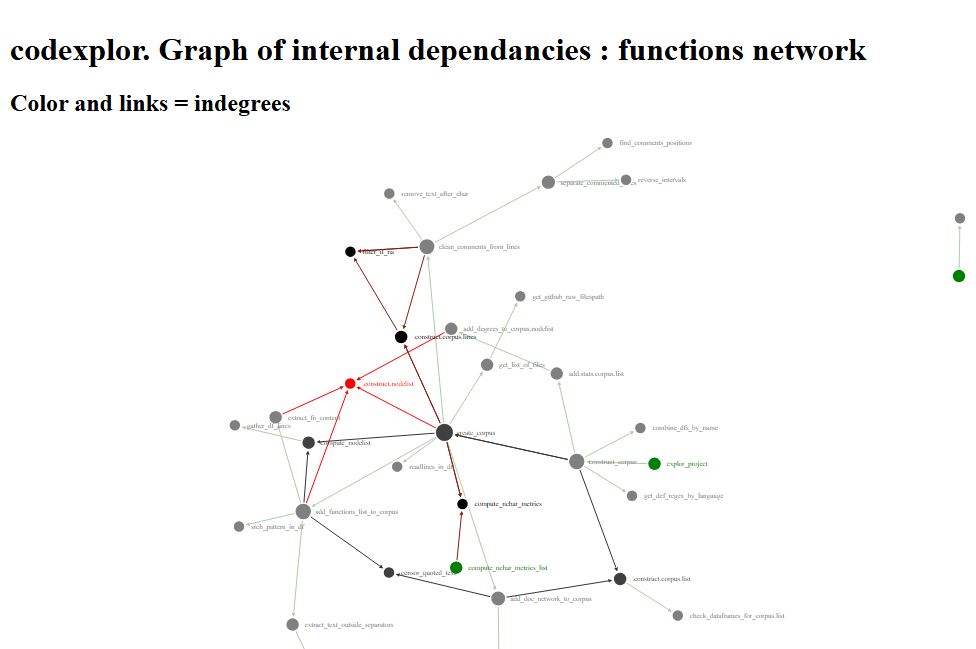
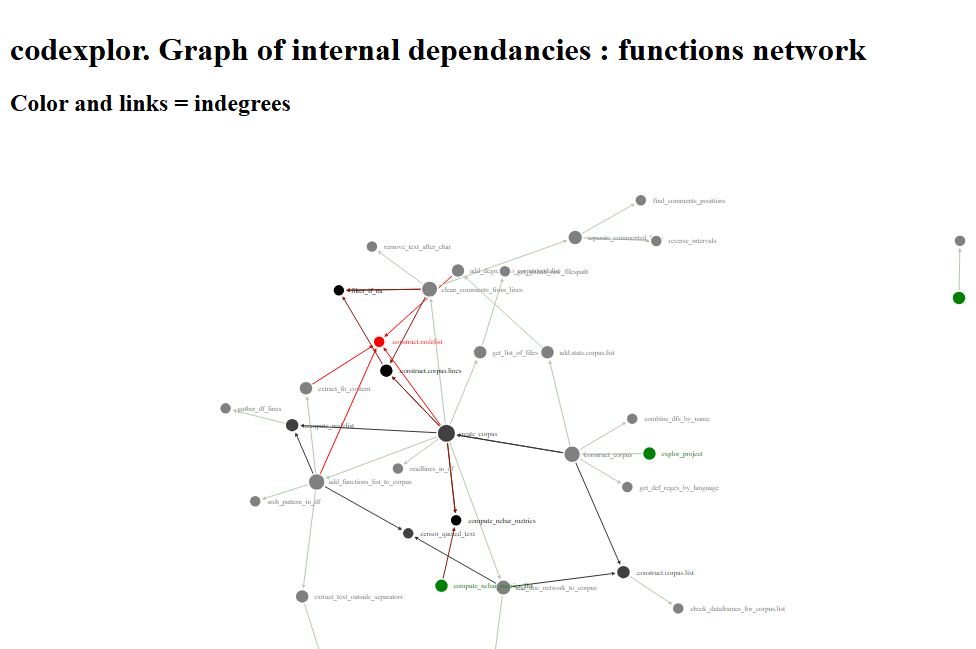
.

diff --git a/man/figures/network_codexplor_fn.html b/man/figures/network_codexplor_fn.html
@@ -1231,11 +1231,11 @@ return function(){for(var n=0,e=0;e<t;++e)n+=Math.random();return n}},um=functio
 <div id="htmlwidget_container">
   <h1>codexplor. Graph of internal dependancies : functions network</h1>
   <h2>Color and links = indegrees</h2>
-  <div class="forceNetwork html-widget html-fill-item" id="htmlwidget-40aa4f397156156c81d8" style="width:960px;height:500px;"></div>
+  <div class="forceNetwork html-widget html-fill-item" id="htmlwidget-779ee07a2e2de3ca71fc" style="width:960px;height:500px;"></div>
   <div style="position:floating; top:10px; left:10px; background:white; padding:10px; border:0px;">
   <strong>Colors (indegree)</strong><br></div>
 </div>
-<script type="application/json" data-for="htmlwidget-40aa4f397156156c81d8">{"x":{"links":{"source":[0,0,1,2,3,4,5,6,0,3,7,0,0,4,2,8,0,3,0,0,9,4,0,10,11,3,3,4,4,12,1,1,13,15,14,16,16,17,2,3,18,19,0,14,0,1,13,1,4,14],"target":[12,12,12,8,8,20,20,20,20,7,6,2,4,21,21,22,1,23,24,24,24,17,17,3,15,0,0,5,11,25,25,25,26,27,27,27,27,28,14,29,30,31,18,16,32,33,34,13,35,36],"colour":["#8C1B0C","#8C1B0C","#8C1B0C","#353535","#353535","#FF0000","#FF0000","#FF0000","#FF0000","#B4C8AC","#B4C8AC","#B4C8AC","#B4C8AC","#353535","#353535","#B4C8AC","#B4C8AC","#B4C8AC","#8C1B0C","#8C1B0C","#8C1B0C","#353535","#353535","#B4C8AC","#B4C8AC","#353535","#353535","#B4C8AC","#B4C8AC","#8C1B0C","#8C1B0C","#8C1B0C","#B4C8AC","#FF0000","#FF0000","#FF0000","#FF0000","#B4C8AC","#B4C8AC","#B4C8AC","#B4C8AC","#B4C8AC","#B4C8AC","#B4C8AC","#B4C8AC","#B4C8AC","#B4C8AC","#B4C8AC","#B4C8AC","#B4C8AC"]},"nodes":{"name":["create_corpus","clean_comments_from_lines","add_doc_network_to_corpus","construct_corpus","add_functions_list_to_corpus","extract_fn_content","add_degrees_to_corpus.nodelist","add.stats.corpus.list",".construct.corpus.list","compute_nchar_metrics_list","explor_project","extract_text_outside_separators",".construct.corpus.lines","separate_commented_lines","get_citations_network_from_df","count_opening_and_closing_chars_level","get_regex_from_vector","compute_nodelist","get_list_of_files","get_networkd3_from_igraph",".construct.nodelist","censor_quoted_text","check_dataframes_for_corpus.list","combine_dfs_by_name","compute_nchar_metrics","filter_if_na","find_comments_positions","fix_escaping","gather_df_lines","get_def_regex_by_language","get_github_raw_filespath","get_igraph_from_df","readlines_in_df","remove_text_after_char","reverse_intervals","srch_pattern_in_df","str_extract_all_to_tidy_df"],"group":[2,1,1,1,1,1,1,1,2,0,0,1,3,1,1,1,1,2,1,0,4,2,1,1,3,3,1,4,1,1,1,1,1,1,1,1,1],"nodesize":[11,5,3,6,6,1,1,1,1,1,1,1,1,2,3,1,2,1,1,1,0,0,0,0,0,0,0,0,0,0,0,0,0,0,0,0,0]},"options":{"NodeID":"name","Group":"indegree","colourScale":"d3.scaleLinear().domain([0, 1, 3, 4]).range([\"green\", \"grey\", \"black\", \"red\"]).clamp(true);","fontSize":7,"fontFamily":"serif","clickTextSize":17.5,"linkDistance":50,"linkWidth":"function(d) { return 1; }","charge":-200,"opacity":1,"zoom":true,"legend":false,"arrows":true,"nodesize":true,"radiusCalculation":" Math.sqrt(d.nodesize)+6","bounded":true,"opacityNoHover":0.9,"clickAction":null}},"evals":[],"jsHooks":[]}</script>
-<script type="application/htmlwidget-sizing" data-for="htmlwidget-40aa4f397156156c81d8">{"viewer":{"width":450,"height":350,"padding":10,"fill":true},"browser":{"width":960,"height":500,"padding":10,"fill":true}}</script>
+<script type="application/json" data-for="htmlwidget-779ee07a2e2de3ca71fc">{"x":{"links":{"source":[0,0,1,2,3,4,5,6,0,3,7,0,0,4,2,8,0,3,0,0,9,4,0,10,11,3,3,4,4,12,1,1,13,15,14,16,16,17,2,3,18,19,0,14,0,1,13,1,4,14],"target":[12,12,12,8,8,20,20,20,20,7,6,2,4,21,21,22,1,23,24,24,24,17,17,3,15,0,0,5,11,25,25,25,26,27,27,27,27,28,14,29,30,31,18,16,32,33,34,13,35,36],"colour":["#8C1B0C","#8C1B0C","#8C1B0C","#353535","#353535","#FF0000","#FF0000","#FF0000","#FF0000","#B4C8AC","#B4C8AC","#B4C8AC","#B4C8AC","#353535","#353535","#B4C8AC","#B4C8AC","#B4C8AC","#8C1B0C","#8C1B0C","#8C1B0C","#353535","#353535","#B4C8AC","#B4C8AC","#353535","#353535","#B4C8AC","#B4C8AC","#8C1B0C","#8C1B0C","#8C1B0C","#B4C8AC","#FF0000","#FF0000","#FF0000","#FF0000","#B4C8AC","#B4C8AC","#B4C8AC","#B4C8AC","#B4C8AC","#B4C8AC","#B4C8AC","#B4C8AC","#B4C8AC","#B4C8AC","#B4C8AC","#B4C8AC","#B4C8AC"]},"nodes":{"name":["create_corpus","clean_comments_from_lines","add_doc_network_to_corpus","construct_corpus","add_functions_list_to_corpus","extract_fn_content","add_degrees_to_corpus.nodelist","add.stats.corpus.list",".construct.corpus.list","compute_nchar_metrics_list","explor_project","extract_text_outside_separators",".construct.corpus.lines","separate_commented_lines","get_citations_network_from_df","count_opening_and_closing_chars_level","get_regex_from_vector","compute_nodelist","get_list_of_files","get_networkd3_from_igraph",".construct.nodelist","censor_quoted_text","check_dataframes_for_corpus.list","combine_dfs_by_name","compute_nchar_metrics","filter_if_na","find_comments_positions","fix_escaping","gather_df_lines","get_def_regex_by_language","get_github_raw_filespath","get_igraph_from_df","readlines_in_df","remove_text_after_char","reverse_intervals","srch_pattern_in_df","str_extract_all_to_tidy_df"],"group":[2,1,1,1,1,1,1,1,2,0,0,1,3,1,1,1,1,2,1,0,4,2,1,1,3,3,1,4,1,1,1,1,1,1,1,1,1],"nodesize":[11,5,3,6,6,1,1,1,1,1,1,1,1,2,3,1,2,1,1,1,0,0,0,0,0,0,0,0,0,0,0,0,0,0,0,0,0]},"options":{"NodeID":"name","Group":"indegree","colourScale":"d3.scaleLinear().domain([0, 1, 3, 4]).range([\"green\", \"grey\", \"black\", \"red\"]).clamp(true);","fontSize":7,"fontFamily":"serif","clickTextSize":17.5,"linkDistance":50,"linkWidth":"function(d) { return 1; }","charge":-200,"opacity":1,"zoom":true,"legend":false,"arrows":true,"nodesize":true,"radiusCalculation":" Math.sqrt(d.nodesize)+6","bounded":true,"opacityNoHover":0.9,"clickAction":null}},"evals":[],"jsHooks":[]}</script>
+<script type="application/htmlwidget-sizing" data-for="htmlwidget-779ee07a2e2de3ca71fc">{"viewer":{"width":450,"height":350,"padding":10,"fill":true},"browser":{"width":960,"height":500,"padding":10,"fill":true}}</script>
 </body>
 </html>

diff --git a/README.md b/README.md
@@ -109,9 +109,12 @@ corpus <- construct_corpus(
 ```
 
 This corpus of dataframes is a standardized way to analyze a programming
-project as a collection of documents. Learn more about these df with the
-[vignette of
+project as a collection of documents, see the [vignette of
 `construct_corpus()`](https://clement-lvd.github.io/codexplor/articles/vignette_construct_corpus.html).
+Some of these df have classes `citations.network` of
+`internal.dependencies`, a network of functions or files. See the
+[vignette of `citations.network`
+`dataframe`](https://clement-lvd.github.io/codexplor/articles/vignette_citations.network_df_of_internal.dependencies.html).
 
 **2. See a dataviz’ from a corpus.list.** Given a `corpus.list`, look at
 the dataviz’ of a `citations.network` `data.frame` with
@@ -133,6 +136,10 @@ dataviz <- get_networkd3_from_igraph(corpus$functions.network
 > \[…\] or assessing the impact of a new dev loop on the project’s
 > complexity.
 
+Look a dataviz of the *files* (`corpus$functions.network`) : [vignette
+of example of files
+network](https://clement-lvd.github.io/codexplor/articles/vignette_analyse_citations_network_from_project.html)
+
 ------------------------------------------------------------------------
 
 ### Vignettes
@@ -142,8 +149,8 @@ project, accordingly to subanalysis tools.
 
 | Quick example | Underlying details |
 |:---|:---|
-| Turn a programming project into a corpus and look at a dataviz of the files : [vignette of example of documents network](https://clement-lvd.github.io/codexplor/articles/vignette_analyse_citations_network_from_project.html) | Construct a corpus : [vignette of `construct_corpus()`](https://clement-lvd.github.io/codexplor/articles/vignette_construct_corpus.html) |
-|  | Understand the `citations.network` of `internaldependencies` : [vignette of `citations.network` `dataframe`](https://clement-lvd.github.io/codexplor/articles/vignette_citations.network_df_of_internal.dependencies.html) |
+|  | Construct a corpus : [vignette of `construct_corpus()`](https://clement-lvd.github.io/codexplor/articles/vignette_construct_corpus.html) |
+|  |  |
 
 `codexplor` also offers helper functions, e.g., for create and filter a
 network with the `igraph` package, see the [vignette of helper functions
